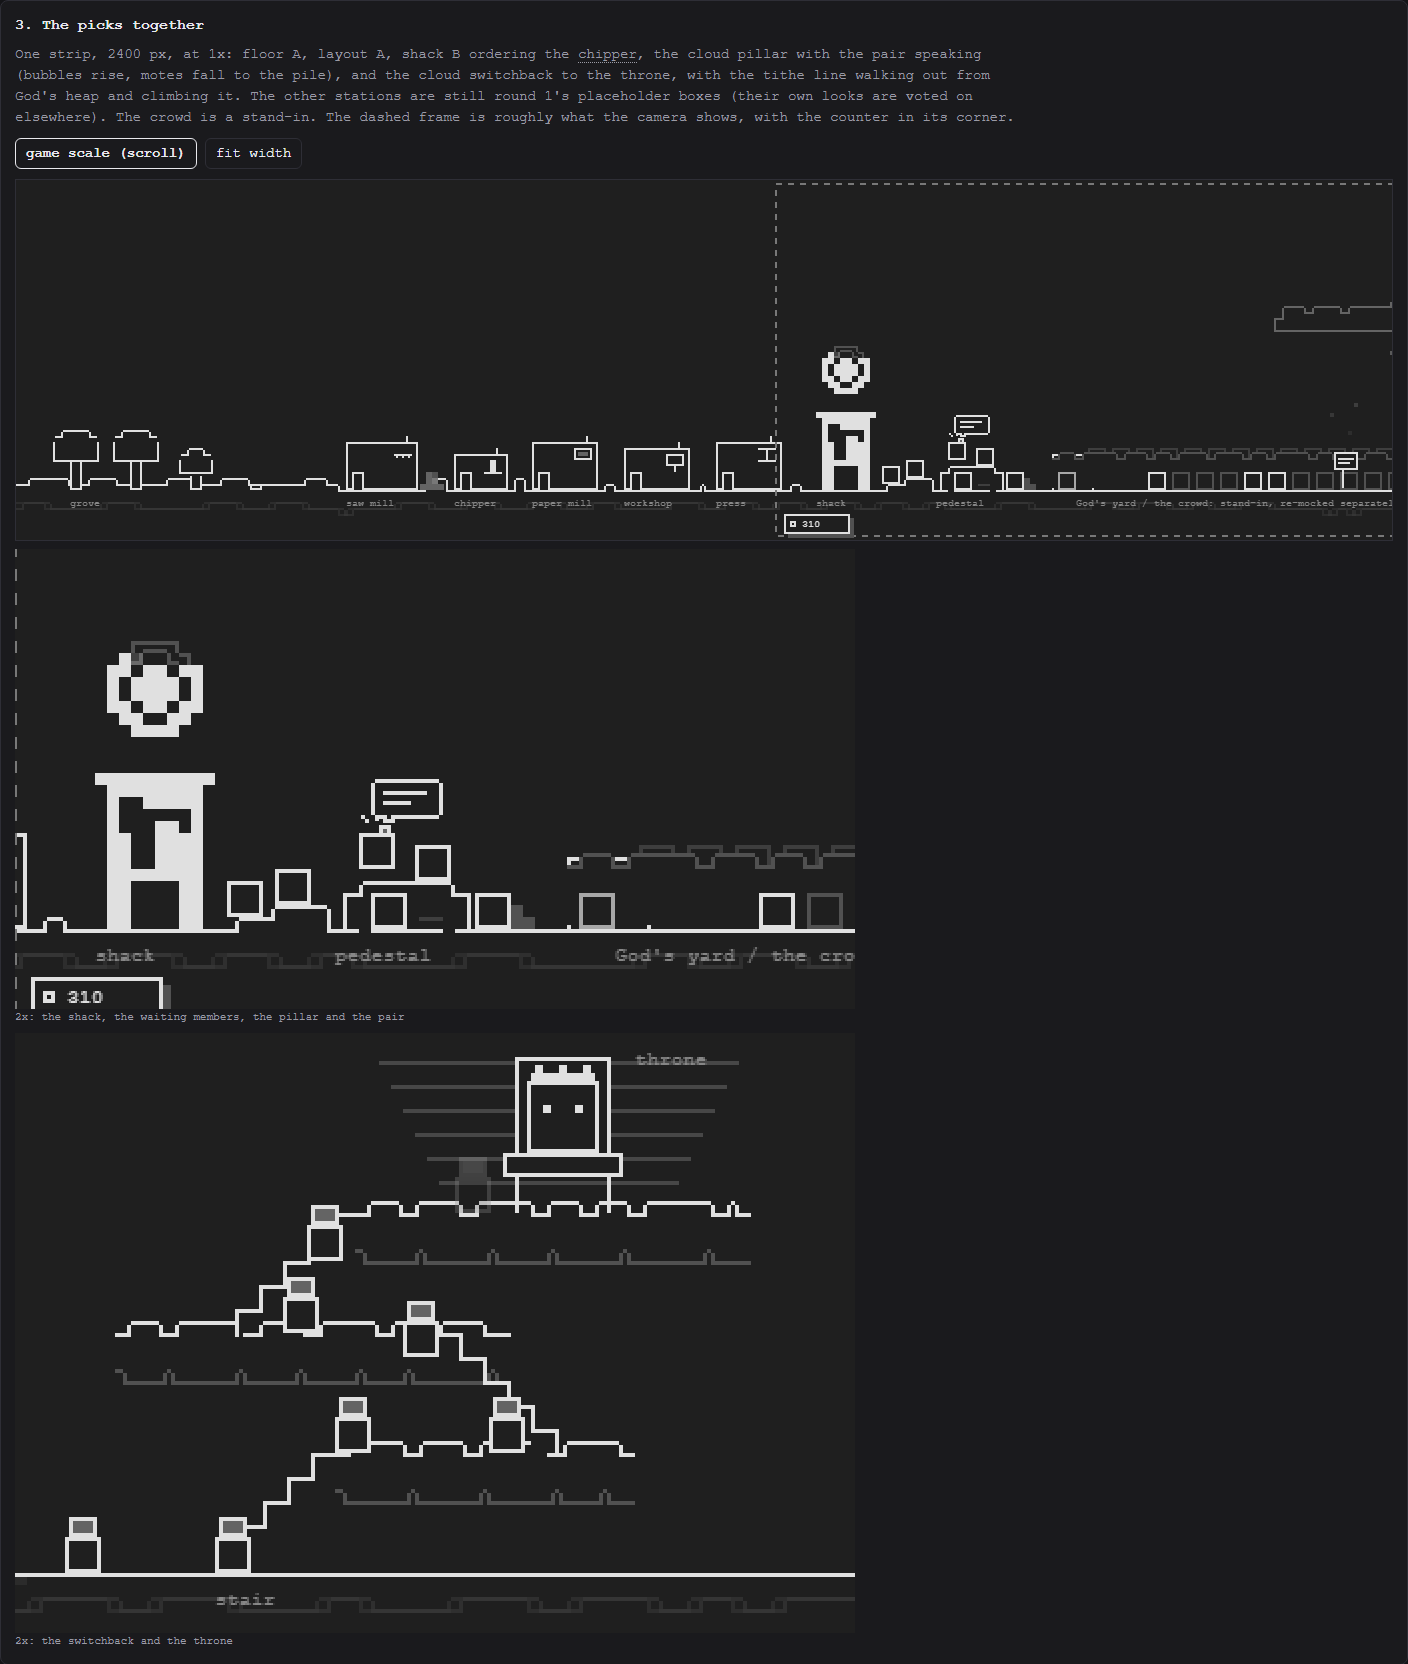
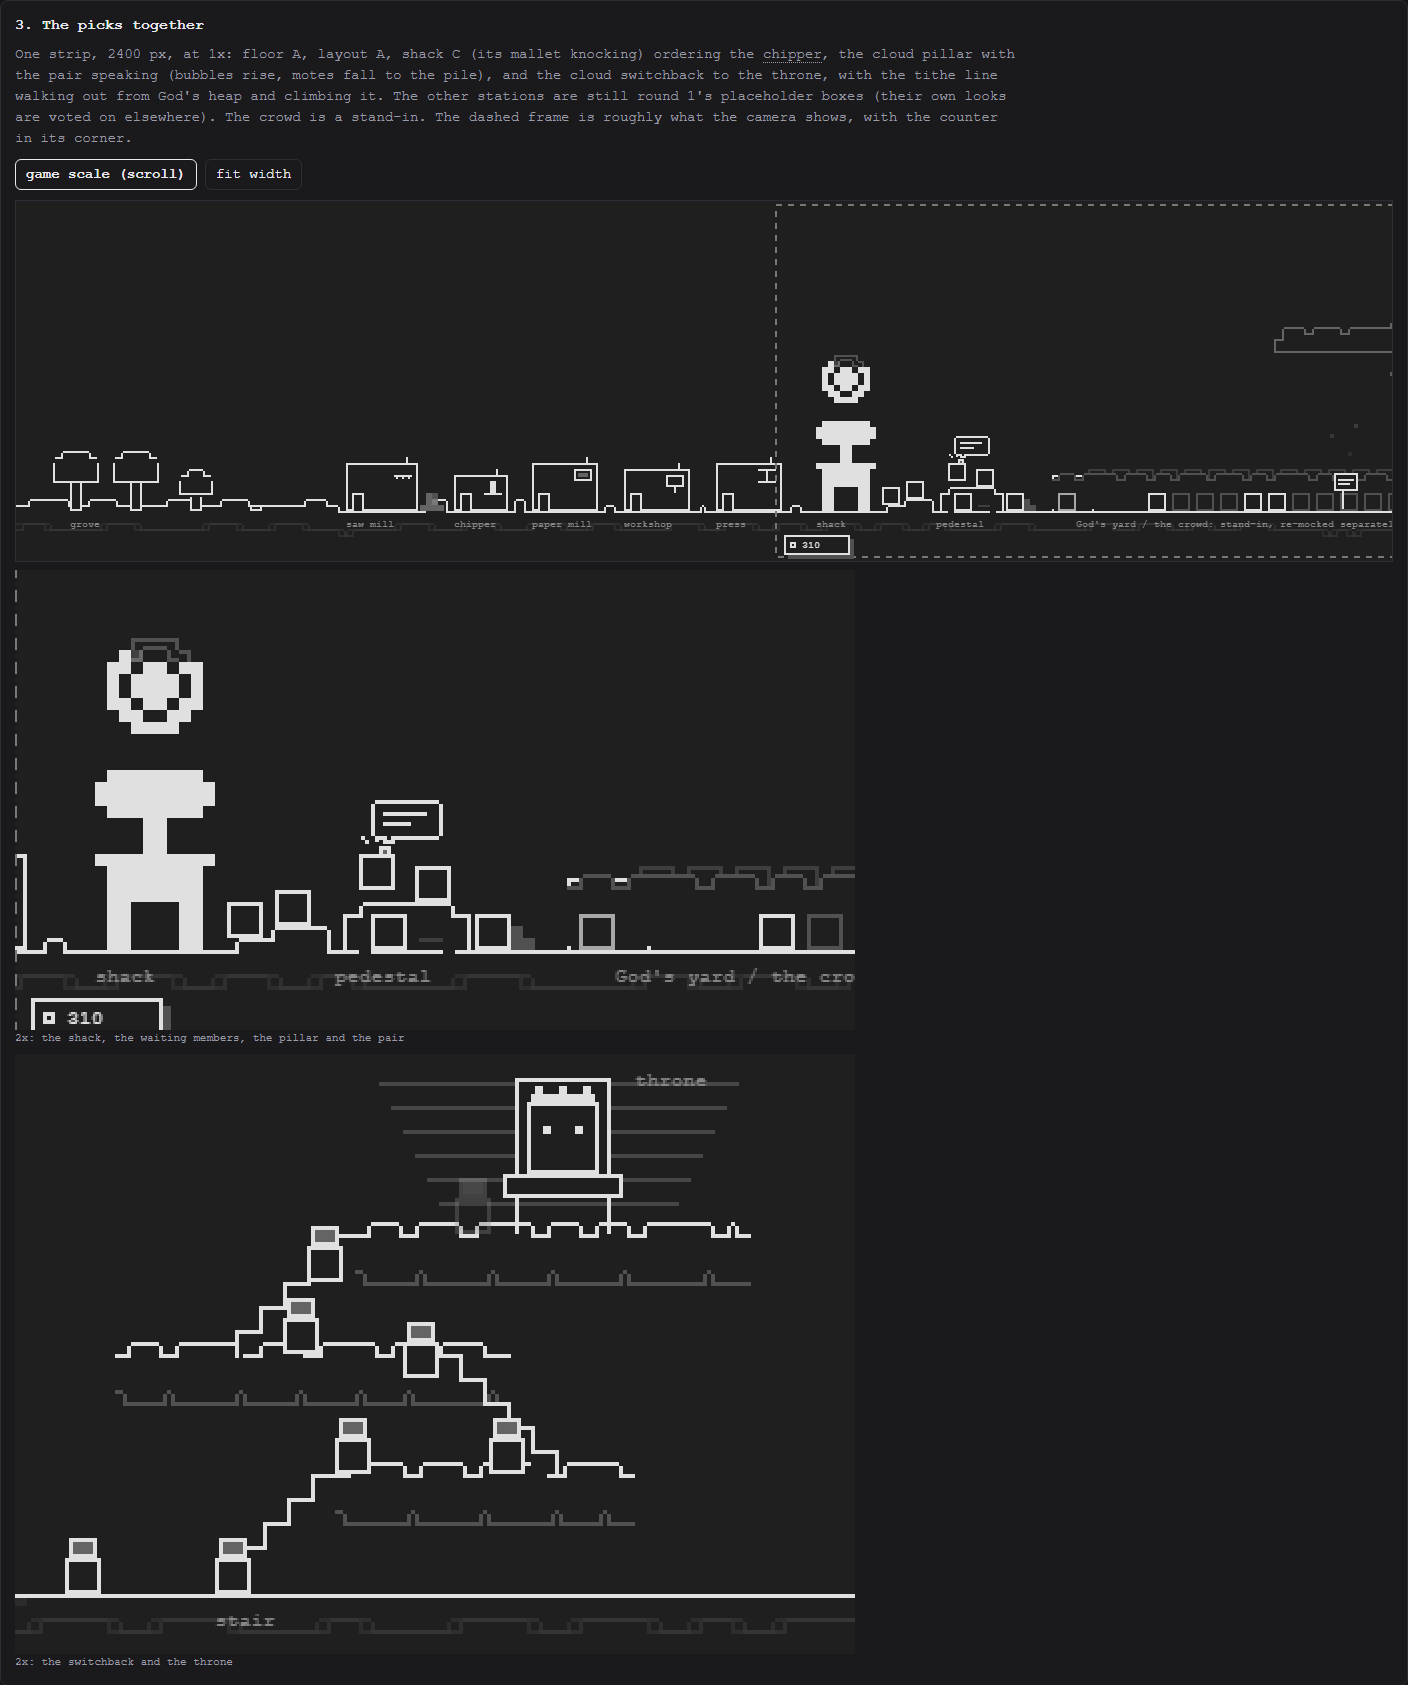
Act 3 shack mock: the three takes redrawn with a mallet; the strip uses the roof mallet

diff --git a/docs/mocks/act3-place-2026-10-18/shack.html b/docs/mocks/act3-place-2026-10-18/shack.html
@@ -50,9 +50,9 @@
 </head>
 <body>
 <main>
-  <h1>Act 3: the construction shack, and the picks together</h1>
-  <p>A follow-up to <code>index.html</code>. The owner's votes: floor <b>A</b> (the billow edge), layout <b>A</b>, pedestal <b>C</b> (the cloud pillar), throne <b>B</b> (the cloud switchback). The crowd is being re-mocked separately, so here it is round 1's drawing, left as a stand-in. On the shack: <i>"not a fan of any of those. make it a shack with a hammer icon."</i></p>
-  <p>A <b>mock</b>, drawn from plain cells in a canvas, <b>not the game</b>. It uses the game's grid (P = 6), the game's greys, and an 18 px body with a 2 px rim. The shacks are drawn in the yard's own building grammar (<code>render/shack.js</code>): one black mass, a lid a cell proud each side, a four-cell way in cut white, and one mark. Each take exaggerates that one mark, the hammer, the way the polished act 3 stations push their one thing. <b>Every word is a placeholder</b>: names are working names (<span class="ph">like this</span>), and the labels on the canvas are placeholders too.</p>
+  <h1>Act 3: the construction shack (mallet), and the picks together</h1>
+  <p>A follow-up to <code>index.html</code>. The owner's votes: floor <b>A</b> (the billow edge), layout <b>A</b>, pedestal <b>C</b> (the cloud pillar), throne <b>B</b> (the cloud switchback). The crowd is being re-mocked separately, so here it is round 1's drawing, left as a stand-in. On the shack: <i>"not a fan of any of those. make it a shack with a hammer icon."</i> And then: <i>"instead of hammer, lets do mallet. something more symmetric and recognizable."</i></p>
+  <p>A <b>mock</b>, drawn from plain cells in a canvas, <b>not the game</b>. It uses the game's grid (P = 6), the game's greys, and an 18 px body with a 2 px rim. The shacks are drawn in the yard's own building grammar (<code>render/shack.js</code>): one black mass, a lid a cell proud each side, a four-cell way in cut white, and one mark. Each take exaggerates that one mark, a wooden mallet (a head three times as wide as its handle, on a straight handle, symmetric about the door; on the wall the head is a plain block, and on the roof, where there is room, its corners are cut a cell to round the barrel), the way the polished act 3 stations push their one thing. <b>Every word is a placeholder</b>: names are working names (<span class="ph">like this</span>), and the labels on the canvas are placeholders too.</p>
   <div class="bar" id="theme">
     <button data-t="auto" class="on">auto</button><button data-t="light">light</button><button data-t="dark">dark</button>
     <button id="pause">pause</button><button id="slow">quarter speed</button>
@@ -65,15 +65,15 @@
       <div class="opt"><h3>A. Sign over the door</h3>
         <div class="pair"><figure><canvas data-src="kA"></canvas><figcaption>1x</figcaption></figure>
         <figure><canvas data-src="kA" data-s="3" data-crop="144,40,96,150"></canvas><figcaption>3x, ordering</figcaption></figure></div>
-        <p>A board hung over the door, a cell wider than the wall each side, with the hammer in ink on it. It reads plainest as a sign ("this is the place for hammers"). It is the tallest of the three, 15 cells, and the board is a second white shape beside the door.</p></div>
-      <div class="opt rec"><h3>B. Hammer cut out of the wall <span class="tag">recommended</span></h3>
+        <p>A board hung over the door, a cell wider than the wall each side, with the mallet in ink on it. It reads plainest as a sign. It is the tallest of the three, at 15 cells, and the board makes a second white shape above the door.</p></div>
+      <div class="opt"><h3>B. Mallet cut out of the wall</h3>
         <div class="pair"><figure><canvas data-src="kB"></canvas><figcaption>1x</figcaption></figure>
         <figure><canvas data-src="kB" data-s="3" data-crop="144,40,96,150"></canvas><figcaption>3x, ordering</figcaption></figure></div>
-        <p>The yard's shack exactly, with its hill over the door swapped for a hammer cut white out of the front, as big as the wall allows. It is two cells taller than the yard's shack (13 against 11), uses the same grammar as the outhouse's moon, and the hammer reads at 1x.</p></div>
-      <div class="opt"><h3>C. Giant hammer on the roof</h3>
+        <p>The yard's shack exactly, with its hill over the door swapped for a mallet cut white out of the front, as big as the wall allows. It is two cells taller than the yard's shack (13 against 11) and uses the same grammar as the outhouse's moon. The mallet's head and the door are two white shapes on one axis, so it reads as a mallet over a door at 1x.</p></div>
+      <div class="opt rec"><h3>C. Giant mallet on the roof <span class="tag">recommended</span></h3>
         <div class="pair"><figure><canvas data-src="kC"></canvas><figcaption>1x</figcaption></figure>
         <figure><canvas data-src="kC" data-s="3" data-crop="144,40,96,150"></canvas><figcaption>3x, ordering</figcaption></figure></div>
-        <p>A low shack with a hammer twice its width standing on its roof: the most exaggerated. It is the only take with a moving part. While an order is in, the hammer knocks, held up a cell and then down. At 1x it reads as a hammer before it reads as a shack.</p></div>
+        <p>A low shack with a mallet as wide as its lid standing on its roof: the most exaggerated. It is the only take with a moving part. While an order is in, the mallet knocks, held up a cell and then down. At 1x it reads as a mallet before it reads as a shack, and from a distance the whole thing is one black T. <b>Why C:</b> on the wall (A, B) the mallet's head is held to six cells and comes out as a stubby T. On the roof it gets the lid's full ten, with its corners rounded, so it is the plainest mallet of the three. Its knock is the one sign on the camp that an order is going in.</p></div>
     </div>
   </section>
 
@@ -86,7 +86,7 @@
 
   <section class="card" id="p">
     <h2>3. The picks together</h2>
-    <p>One strip, 2400 px, at 1x: floor A, layout A, shack B ordering the <span class="ph">chipper</span>, the cloud pillar with the pair speaking (bubbles rise, motes fall to the pile), and the cloud switchback to the throne, with the tithe line walking out from God's heap and climbing it. The other stations are still round 1's placeholder boxes (their own looks are voted on elsewhere). The crowd is a stand-in. The dashed frame is roughly what the camera shows, with the counter in its corner.</p>
+    <p>One strip, 2400 px, at 1x: floor A, layout A, shack C (its mallet knocking) ordering the <span class="ph">chipper</span>, the cloud pillar with the pair speaking (bubbles rise, motes fall to the pile), and the cloud switchback to the throne, with the tithe line walking out from God's heap and climbing it. The other stations are still round 1's placeholder boxes (their own looks are voted on elsewhere). The crowd is a stand-in. The dashed frame is roughly what the camera shows, with the counter in its corner.</p>
     <div class="bar" id="fitbar"><button data-f="0" class="on">game scale (scroll)</button><button data-f="1">fit width</button></div>
     <div id="fitwrap"><div class="wide"><canvas data-src="picks"></canvas></div></div>
     <figure style="margin-top:8px"><canvas data-src="picks" data-s="2" data-crop="760,120,420,230"></canvas><figcaption>2x: the shack, the waiting members, the pillar and the pair</figcaption></figure>
@@ -430,42 +430,42 @@ function map(x, y, rows) {
   }));
 }
 // A: a sign board hung over the door, a cell wider than the wall each side,
-// the hammer drawn in ink on it
+// the mallet drawn in ink on it
 const SHACK_A = [
   '##########',
   ' ######## ',
   '##########',
   '#........#',
-  '#.##.....#',
   '#.######.#',
-  '#.###.#..#',
-  '#..##....#',
-  '#..##....#',
-  '#........#',
+  '#.######.#',
+  '#.######.#',
+  '#...##...#',
+  '#...##...#',
+  '#...##...#',
   '##########',
   ' ##....## ',
   ' ##....## ',
   ' ##....## ',
   ' ##....## ',
 ];
-// B: the hammer cut white out of the front, the way the yard's shack cuts its
+// B: the mallet cut white out of the front, the way the yard's shack cuts its
 // hill and the outhouse its moon, big enough to be the whole wall
 const SHACK_B = [
   '##########',
   ' ######## ',
-  ' #..##### ',
   ' #......# ',
-  ' #...##.# ',
-  ' ##..#### ',
-  ' ##..#### ',
-  ' ##..#### ',
+  ' #......# ',
+  ' #......# ',
+  ' ###..### ',
+  ' ###..### ',
+  ' ###..### ',
   ' ######## ',
   ' ##....## ',
   ' ##....## ',
   ' ##....## ',
   ' ##....## ',
 ];
-// C: a low shack with a giant hammer standing on its roof, the one thing
+// C: a low shack with a giant mallet standing on its roof, the one thing
 // pushed past realistic; it knocks when an order goes in
 const SHACK_C = [
   '##########',
@@ -477,13 +477,14 @@ const SHACK_C = [
   ' ##....## ',
   ' ##....## ',
 ];
-const HAMMER_C = [
-  '###       ',
+const MALLET_C = [
+  ' ######## ',
   '##########',
-  '#####  ## ',
-  '   ##     ',
-  '   ##     ',
-  '   ##     ',
+  '##########',
+  ' ######## ',
+  '    ##    ',
+  '    ##    ',
+  '    ##    ',
 ];
 // draw a take with its feet on `yF`, left edge `x`; returns its top, door x and middle
 function shackTake(take, x, yF, t = 0, knocking = false) {
@@ -493,8 +494,8 @@ function shackTake(take, x, yF, t = 0, knocking = false) {
   map(x, y, SHACK_C);
   // the knock: held up a cell, then down, a beat a little over a second
   const dy = knocking && mod(t, 1.2) < .3 ? -P : 0;
-  map(x, y - HAMMER_C.length * P + dy, HAMMER_C);
-  return { top: y - HAMMER_C.length * P, door: x + P * 3, mid: x + P * 5 };
+  map(x, y - MALLET_C.length * P + dy, MALLET_C);
+  return { top: y - MALLET_C.length * P, door: x + P * 3, mid: x + P * 5 };
 }
 // the yard's own shack, as render/shack.js draws it: 8 by 11, a lid a cell
 // proud, a four-cell way in, the hill cut over the door
@@ -614,8 +615,8 @@ src('picks', LW, LH, t => {
   label(S.grove + 30, LY + 8, 'grove');
   for (const [k, w, h, gl, name] of boxes) { station(S[k], LY, w, h, gl); label(S[k], LY + 8, name); }
   heap(S.mill + 12 * P + 2, LY, 24, 3);
-  // the shack (take B), ordering the chipper: its glyph filling over it
-  const sh = shackTake('B', S.shack, LY);
+  // the shack (take C), ordering the chipper: its mallet knocking, the glyph filling over it
+  const sh = shackTake('C', S.shack, LY, t, true);
   floatGlyph(sh.mid, sh.top - P * 7, SAWG, smooth(mod(t / 10, 1) / .8) * (mod(t / 10, 1) < .9 ? 1 : 1 - (mod(t / 10, 1) - .9) / .1));
   label(S.shack, LY + 8, 'shack');
   // the cloud pillar, the pair speaking
